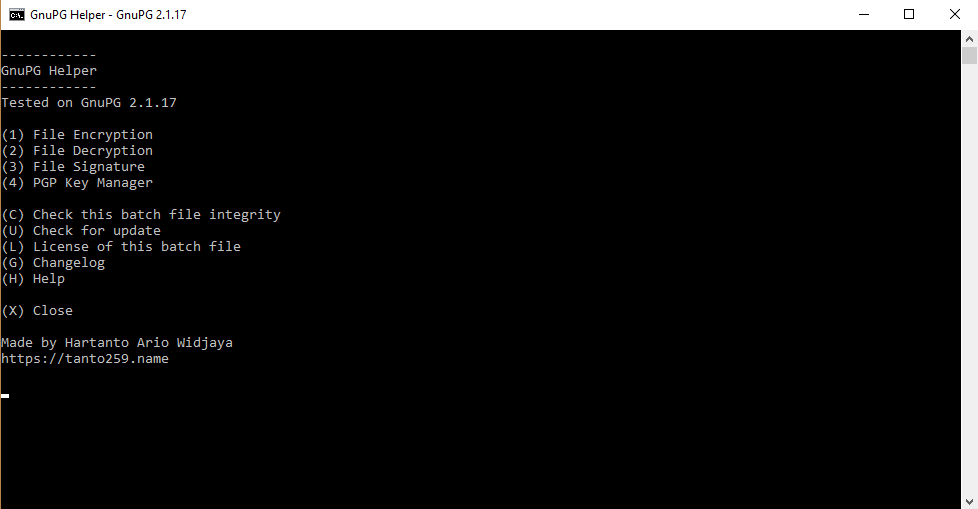
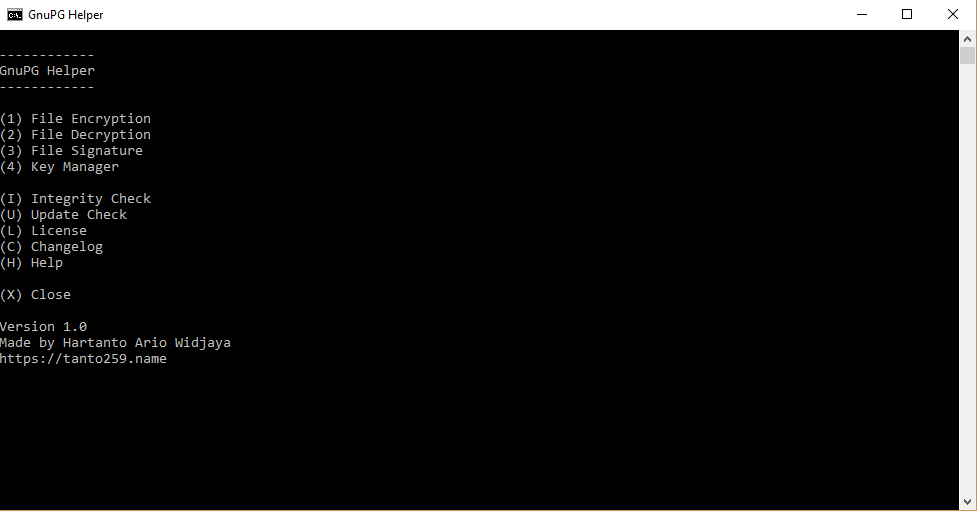
Update Posts

diff --git a/_posts/2016-08-23-gnupghelper.html b/_posts/2016-08-23-gnupghelper.html
@@ -1,7 +1,7 @@
 ---
 layout: post
 title:  "GnuPG Helper"
-date:   2016-08-23
+date:   2017-04-01
 excerpt: "A simple batch file intended to help those who have GnuPG in Windows"
 tag:
 - Project
@@ -33,13 +33,13 @@ comments: true
 		<strong>Dependencies</strong>
 		<br/>
 		<p>Built for GnuPG Modern Release</p>
-		<a href="https://gnupg.org" target="_blank" rel="noopener noreferrer">GnuPG 2.1</a> (tested on 2.1.17)<br/>
+		<a href="https://gnupg.org" target="_blank" rel="noopener noreferrer">GnuPG 2.1</a> (tested on 2.1.19)<br/>
 		<br/>
 		<a href="https://gpg4win.org" target="_blank" rel="noopener noreferrer">Gpg4win 3 Beta</a> (untested)<br/>
 		<br/>
 		<p>Usage for GnuPG Stable 2.0 and Classic 1.4 are untested and unsupported.</p>
 
-		<strong><a href="https://github.com/tanto259/gnupghelper/archive/master.zip" target="_blank" rel="noopener noreferrer">Download</a> | <a href="https://github.com/tanto259/gnupghelper" target="_blank" rel="noopener noreferrer">GitHub</a></strong>
+		<strong><a href="https://github.com/tanto259/batch/releases" target="_blank" rel="noopener noreferrer">Download</a> | <a href="https://github.com/tanto259/batch/tree/master/gnupghelper" target="_blank" rel="noopener noreferrer">GitHub</a></strong>
 	</center>
 	<br/>
 </div>
@@ -71,52 +71,41 @@ comments: true
 	<ol>
 		<li>First, do the integrity check</li>
 		<li>Edit the .bat file using a text editor.</li>
-		<li>For portable gpg.exe, in line 14, add the full directory to your gpg.exe file after <code>SET PORTABLE=</code>. Example: <code>SET PORTABLE=C:\GPG\gpg.exe</code></li>
-		<li>For portable keyring, in line 16, add the full directory to your keyring folder after <code>SET HOMEDIR=</code>. Example: <code>SET HOMEDIR=C:\GPGKeyring\</code></li>
+		<li>For portable gpg.exe, in line 22, add the full directory to your gpg.exe file after <code>SET PORTABLE=</code>. Example: <code>SET PORTABLE=C:\GPG\gpg.exe</code></li>
+		<li>For portable keyring, in line 24, add the full directory to your keyring folder after <code>SET HOMEDIR=</code>. Example: <code>SET HOMEDIR=C:\GPGKeyring\</code></li>
 		<li>This will render the signature file GnuPG-Helper.bat.asc <strong>invalid</strong>.</li>
 	</ol>
 </div>
 <hr>
-<center><h3><i class="fa fa-fw fa-check-circle-o" id="font30"></i><br/>Checksum</h3></center>
+<center><h3><i class="fa fa-fw fa-check-circle-o" id="font30"></i><br/>Integrity Check</h3></center>
 <div id="checksum">
 	<br/>
 	<strong>Public Key</strong>
-	<pre><code>sec   rsa4096 2016-12-31 [SC]
-      435DC2EEDE2DD1EEFFED9A1B2C4D19A0EBE358FC
-uid           Hartanto Ario Widjaya (<span class="mailnolink" mail="pbagnpg@gnagb259.anzr"></span>)</code></pre>
-	<p>For more information, <a href="https://tanto259.keybase.pub/signingkey.html" target="_blank" rel="noopener noreferrer">click here</a>.</p>
-
-	<strong>GnuPG-Helper.bat</strong>
-	<pre><code>CRC32: 87BD1BD3
-CRC64: 871AE35FAD457BCB
-MD5: AC1C6870372A97155F2F2B07A97EC79F
-SHA-1: 100EE83FF36A1523F83F29A5CDEB7D422BEEA1B5
-SHA-256: 8CD299F248DD5DD96D40CE202F9887F2B6F3F58FF516C6385AF56783DBDA3E93</code></pre>
+	<p>File `GnuPG-Helper.bat` is signed using key <a href="https://tanto259.keybase.pub/signingkey.html">0xEBE358FC</a> and can be verified by the signature file 'GnuPG-Helper.bat.asc' through the use of:</p>
+	<code>gpg --verify GnuPG-Helper.bat.asc GnuPG-Helper.bat</code>
 	<br/>
-	<strong>GnuPG-Helper.bat.asc</strong>
-	<pre><code>CRC32: 925131BA
-CRC64: 5C17EDECAAAF4FE1
-MD5: 256162BDDF4A5DD4001208917BE3ACEE
-SHA-1: 367D7D2321981A7C2C506D0AE3771FB6FBC73EEA
-SHA-256: 1D69DB3DAB37C5E754F4F75A57BC36E46EE5FB73B989EC0449E6B5FA765EEEDA</code></pre>
+	<strong>Checksum for GnuPG-Helper.bat</strong>
+	<pre><code>MD5: 0B4F93D9769A8377AA175B0CEE0CCB55
+SHA-1: 12A6CCD1B0F265766AD2E741090943035DC0C621
+SHA-256: 7257B5F93C68DC83A3974F3CFBDF5F4F864FAAF3F6E2701D8FB484CA3A728E89</code></pre>
+	<br/>
+	<strong>Checksum for GnuPG-Helper.bat.asc</strong>
+	<pre><code>MD5: 7B973AF4AD8717D57D060409BA81B42A
+SHA-1: 4D4D440DA81CE6D189C146E959E688DA5C567061
+SHA-256: 6A643BC4F39E7B202B4BBDB13E013AEBB38E90A160332FFB09B2852FE0E87765</code></pre>
 </div>
 <hr>
 <center><h3><i class="fa fa-fw fa-book" id="font30"></i><br/>Disclaimer</h3></center>
 <div id="tplicense">
 	<br/>
-	<p>We are not affliated with PGP, GnuPG or Gpg4win. <a href="https://www.symantec.com/products/information-protection/encryption" target="_blank" rel="noopener noreferrer">PGP</a> is a product of <a href="https://symantec.com" target="_blank" rel="noopener noreferrer">Symantec Corporation</a>. <a href="https://gnupg.org" target="_blank" rel="noopener noreferrer">GnuPG</a> is an international community project run by volunteers and not a legal entity. The technical resources are provided by <a href="https://g10code.com" target="_blank" rel="noopener noreferrer">g10 Code GmbH</a>. <a href="https://gpg4win.org" target="_blank" rel="noopener noreferrer">Gpg4win</a> is developed by <a href="https://intevation.net" target="_blank" rel="noopener noreferrer">Intevation GmbH</a> and <a href="https://g10code.com" target="_blank" rel="noopener noreferrer">g10 Code GmbH</a>.</p>
+	<p>We are not affliated with PGP, GnuPG or Gpg4Win.</p>
 </div>
 <hr class="hr-line">
 <center><h3 class="title"><i class="fa fa-fw fa-copyright" id="font30"></i><br/>License</h3></center>
 <div id="license">
 	<br/>
-	<p>The MIT License (MIT)</p>
-
-	<p>Copyright (c) 2016-<span class="year"></span> Hartanto Ario Widjaya<p>
-
-	<p>Permission is hereby granted, free of charge, to any person obtaining a copy of this software and associated documentation files (the "Software"), to deal in the Software without restriction, including without limitation the rights to use, copy, modify, merge, publish, distribute, sublicense, and/or sell copies of the Software, and to permit persons to whom the Software is furnished to do so, subject to the following conditions:<p>
-
-	<p>The above copyright notice and this permission notice shall be included in all copies or substantial portions of the Software.</p>
-
-	<p>THE SOFTWARE IS PROVIDED "AS IS", WITHOUT WARRANTY OF ANY KIND, EXPRESS OR IMPLIED, INCLUDING BUT NOT LIMITED TO THE WARRANTIES OF MERCHANTABILITY, FITNESS FOR A PARTICULAR PURPOSE AND NONINFRINGEMENT. IN NO EVENT SHALL THE AUTHORS OR COPYRIGHT HOLDERS BE LIABLE FOR ANY CLAIM, DAMAGES OR OTHER LIABILITY, WHETHER IN AN ACTION OF CONTRACT, TORT OR OTHERWISE, ARISING FROM, OUT OF OR IN CONNECTION WITH THE SOFTWARE OR THE USE OR OTHER DEALINGS IN THE SOFTWARE.</p>
+	<p>Apache License, Version 2.0</p>
+	<p>Copyright (c) 2017, Hartanto Ario Widjaya</p>
+	<p>Licensed under the Apache License, Version 2.0 (the "License");<br/>you may not use this file except in compliance with the License.<br/>You may obtain a copy of the License at</p><p><center><a href="http://www.apache.org/licenses/LICENSE-2.0">http://www.apache.org/licenses/LICENSE-2.0</a></center></p>
+	<p>Unless required by applicable law or agreed to in writing, software<br/>distributed under the License is distributed on an "AS IS" BASIS,<br/>WITHOUT WARRANTIES OR CONDITIONS OF ANY KIND, either express or implied.<br/>See the License for the specific language governing permissions and<br/> limitations under the License.</p>
 </div>

diff --git a/_posts/2016-12-16-pwnedbatcheck.html b/_posts/2016-12-16-pwnedbatcheck.html
@@ -1,7 +1,7 @@
 ---
 layout: post
 title:  "Have I Been Pwned? Batch Script"
-date:   2016-12-16
+date:   2017-04-01
 excerpt: "Batch Script for the Have I Been Pwned API v2"
 project: true
 tag:
@@ -16,7 +16,6 @@ comments: true
 <h3>Function</h3>
 <ul>
 	<li>Check whether your account had been breached</li>
-	<li>Get your account pastes</li>
 </ul>
 
 <h3>How to Use</h3>
@@ -27,7 +26,7 @@ comments: true
 <div id="download">
 	<br/>
 	<center>
-		<strong><a href="https://github.com/tanto259/haveibeenpwned-batch/archive/master.zip" target="_blank" rel="noopener noreferrer">Download</a> | <a href="https://github.com/tanto259/haveibeenpwned-batch" target="_blank" rel="noopener noreferrer">GitHub</a></strong>
+		<strong><a href="https://github.com/tanto259/batch/releases" target="_blank" rel="noopener noreferrer">Download</a> | <a href="https://github.com/tanto259/batch/tree/master/haveibeenpwned" target="_blank" rel="noopener noreferrer">GitHub</a></strong>
 	</center>
 	<br/>
 </div>
@@ -47,18 +46,16 @@ comments: true
 <div id="checksum">
 	<br/>
 	<strong>HaveIBeenPwned.bat</strong>
-	<pre><code>CRC32: 87073273
-CRC64: EB4D1D269FFDD97D
-MD5: 20C99758D1A7DD45D747BDF0AEA9781B
-SHA-1: FC7FAB07189F18A302A5410E48CDABB1E130A7A5
-SHA-256: E0B40617EA9A1C990FACCFCA772CF6A94C86C66D1DC412D214963B3E8256780B</code></pre>
+	<pre><code>MD5: 381DFD1DAB8D3BAC314BADE2B4D1AAB5
+SHA-1: 2B6DB6EB60820E360D086E6683C2D844B8689D5C
+SHA-256: 34C8EA72A2351BEBF51924D33706831D06B2102EB5A637C366990492AB7FEAAF
+</code></pre>
 	<br/>
-	<strong>callurl.cmd</strong>
-	<pre><code>CRC32: 5BE176CF
-CRC64: C7FC526562BF8E0A
-MD5: 3A08874014DB6F9E0CA9430C693AA473
-SHA-1: 8DA5239BE562F22D6B3C103B72F3B2D823AB77FD
-SHA-256: 8351358B69CC27B0AD3AC9ABA7EF664104F2B0EC52504E6E578F58AD73762028</code></pre>
+	<strong>callurl.js</strong>
+	<pre><code>MD5: B2FCC7F8995318005E6C98D6BB782783
+SHA-1: 207E3A47A98956F5D8852D8789A7C85278A1B891
+SHA-256: 9D9BD2D32A2C4255E26510B21092564836887E8F51E3F5DE0550102EEEE00FEA
+</code></pre>
 </div>
 <hr class="hr-line">
 <center><h3><i class="fa fa-fw fa-book" id="font30"></i><br/>Disclaimer</h3></center>
@@ -70,17 +67,8 @@ SHA-256: 8351358B69CC27B0AD3AC9ABA7EF664104F2B0EC52504E6E578F58AD73762028</code>
 <center><h3><i class="fa fa-fw fa-copyright" id="font30"></i><br/>License</h3></center>
 <div id="license">
 	<br/>
-	<p>The MIT License (MIT)</p>
-
-	<p>Copyright (c) 2016-<span class="year"></span> Hartanto Ario Widjaya<p>
-
-	<p>Permission is hereby granted, free of charge, to any person obtaining a copy of this software and associated documentation files (the "Software"), to deal in the Software without restriction, including without limitation the rights to use, copy, modify, merge, publish, distribute, sublicense, and/or sell copies of the Software, and to permit persons to whom the Software is furnished to do so, subject to the following conditions:<p>
-
-	<p>The above copyright notice and this permission notice shall be included in all copies or substantial portions of the Software.</p>
-
-	<p>THE SOFTWARE IS PROVIDED "AS IS", WITHOUT WARRANTY OF ANY KIND, EXPRESS OR IMPLIED, INCLUDING BUT NOT LIMITED TO THE WARRANTIES OF MERCHANTABILITY, FITNESS FOR A PARTICULAR PURPOSE AND NONINFRINGEMENT. IN NO EVENT SHALL THE AUTHORS OR COPYRIGHT HOLDERS BE LIABLE FOR ANY CLAIM, DAMAGES OR OTHER LIABILITY, WHETHER IN AN ACTION OF CONTRACT, TORT OR OTHERWISE, ARISING FROM, OUT OF OR IN CONNECTION WITH THE SOFTWARE OR THE USE OR OTHER DEALINGS IN THE SOFTWARE.</p>
-
-	<p><center>=====</center></p>
-
-	<p>Uses the <a href="https://github.com/npocmaka/batch.scripts/blob/master/hybrids/jscript/winhttpjs.bat" target="_blank" rel="noopener noreferrer">WinHTTPjs.bat</a> library by <a href="https://github.com/npocmaka" target="_blank" rel="noopener noreferrer">Vasil Arnaudov</a>, licensed under <a href="https://github.com/npocmaka/batch.scripts/blob/master/LICENSE" target="_blank" rel="noopener noreferrer">MIT License</a>.<br/>Copyright (c) 2014 Vasil Arnaudov</p>
+	<p>Apache License, Version 2.0</p>
+	<p>Copyright (c) 2017, Hartanto Ario Widjaya</p>
+	<p>Licensed under the Apache License, Version 2.0 (the "License");<br/>you may not use this file except in compliance with the License.<br/>You may obtain a copy of the License at</p><p><center><a href="http://www.apache.org/licenses/LICENSE-2.0">http://www.apache.org/licenses/LICENSE-2.0</a></center></p>
+	<p>Unless required by applicable law or agreed to in writing, software<br/>distributed under the License is distributed on an "AS IS" BASIS,<br/>WITHOUT WARRANTIES OR CONDITIONS OF ANY KIND, either express or implied.<br/>See the License for the specific language governing permissions and<br/> limitations under the License.</p>
 </div>
